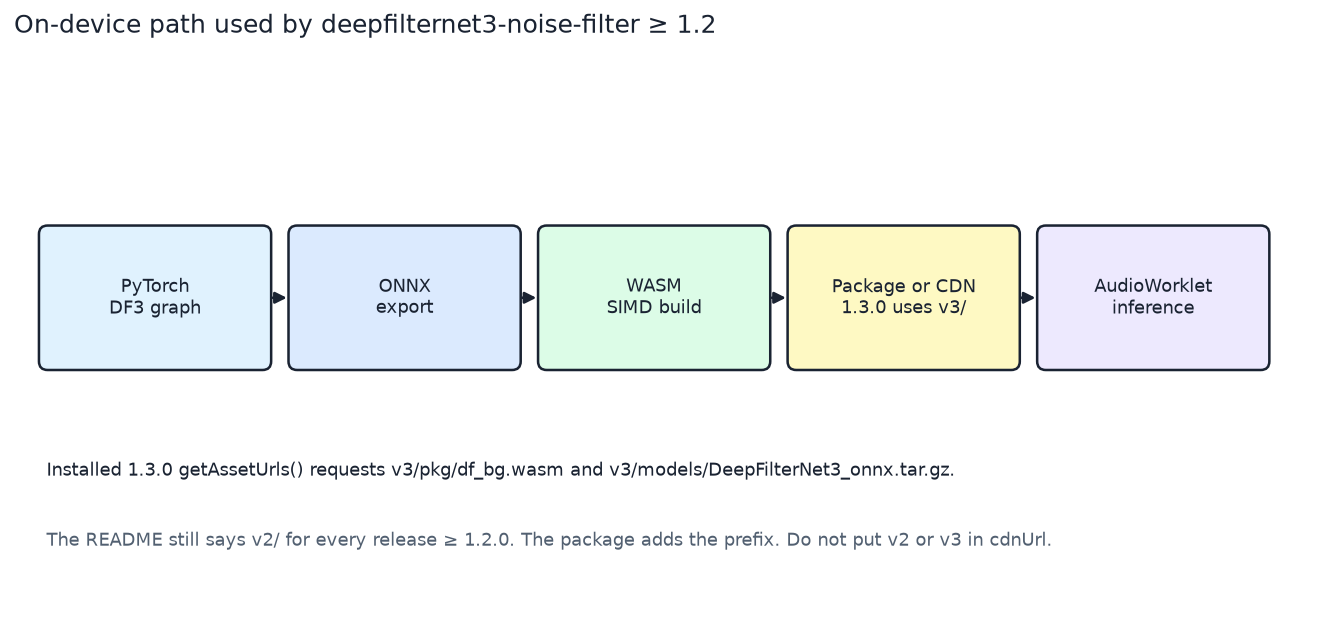
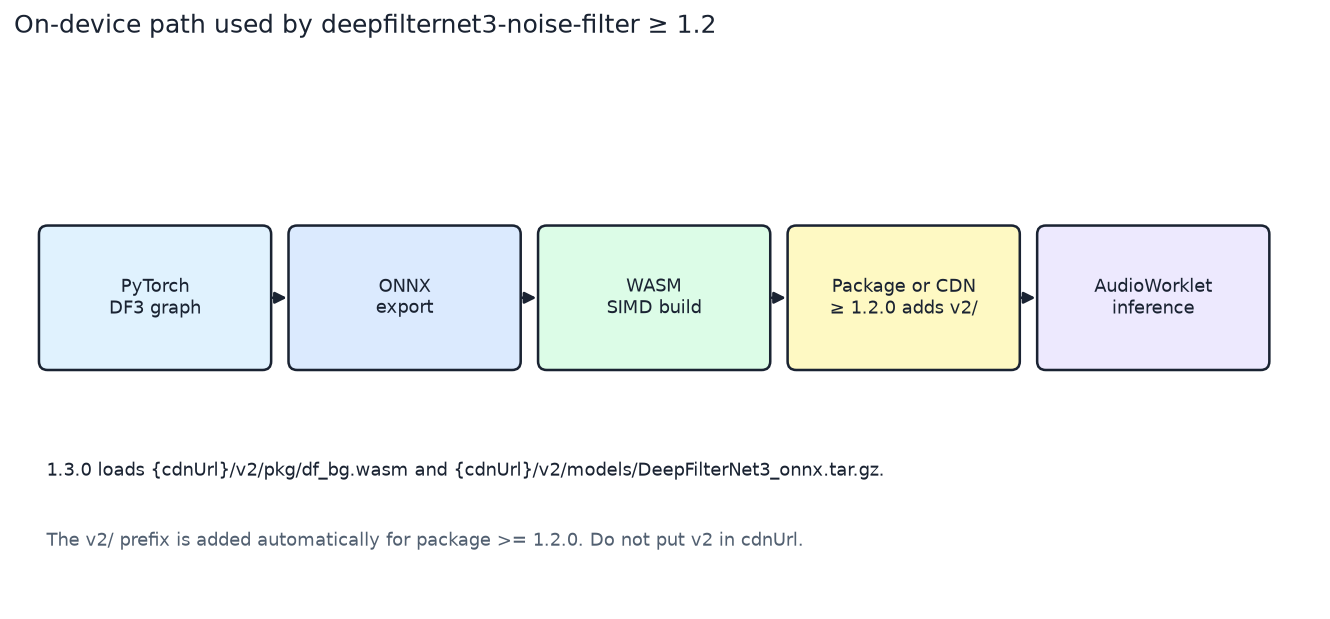
Teach the 1.3.0 public API with the automatic v2 CDN prefix.
Align LiveKit and core snippets with DeepFilterNet3Core, DeepFilterNoiseFilterProcessor, and DeepFilterNoiseFilter. Package >= 1.2.0, including 1.3.0, adds v2/ itself; examples stay at 48 kHz on the Mezon CDN base.

Changed region(s): [[0.0617, 0.8595, 0.8015, 0.8901], [0.0308, 0.7367, 0.709, 0.7981], [0.6165, 0.4604, 0.7398, 0.5218]]

diff --git a/scripts/generate_course_figures.py b/scripts/generate_course_figures.py
@@ -454,15 +454,15 @@ def onnx_wasm_path():
         (0.25, "PyTorch\nDF3 graph", "#e0f2fe"),
         (2.55, "ONNX\nexport", "#dbeafe"),
         (4.85, "WASM\nSIMD build", "#dcfce7"),
-        (7.15, "Package or CDN\n1.3.0 uses v3/", "#fef9c3"),
+        (7.15, "Package or CDN\n≥ 1.2.0 adds v2/", "#fef9c3"),
         (9.45, "AudioWorklet\ninference", "#ede9fe"),
     ]
     for x, text, fc in labels:
         _box(ax, (x, 2.2), 2.1, 1.3, text, fc, fs=9)
     for x in (2.35, 4.65, 6.95, 9.25):
         _arrow(ax, (x, 2.85), (x + 0.2, 2.85))
-    ax.text(0.3, 1.2, "Installed 1.3.0 getAssetUrls() requests v3/pkg/df_bg.wasm and v3/models/DeepFilterNet3_onnx.tar.gz.", fontsize=9, color=INK)
-    ax.text(0.3, 0.55, "The README still says v2/ for every release ≥ 1.2.0. The package adds the prefix. Do not put v2 or v3 in cdnUrl.", fontsize=9, color=MUTED)
+    ax.text(0.3, 1.2, "1.3.0 loads {cdnUrl}/v2/pkg/df_bg.wasm and {cdnUrl}/v2/models/DeepFilterNet3_onnx.tar.gz.", fontsize=9, color=INK)
+    ax.text(0.3, 0.55, "The v2/ prefix is added automatically for package >= 1.2.0. Do not put v2 in cdnUrl.", fontsize=9, color=MUTED)
     _save(fig, "onnx-wasm-path.png")
 
 

diff --git a/contents/vi/chapter09/_posts/21-01-01-09_01_mezon_architecture.md b/contents/vi/chapter09/_posts/21-01-01-09_01_mezon_architecture.md
@@ -11,7 +11,7 @@ lesson_type: required
 draft: false
 ---
 
-Mezon noise suppression là case study sản phẩm, không phải giáo trình thứ hai. Đường công khai là micro trình duyệt, track cục bộ của LiveKit, và `DeepFilterNoiseFilterProcessor` từ gói npm `deepfilternet3-noise-filter` (bản 1.3.0 trong khóa này). Suy luận ở trên thiết bị. Gói tải bản WASM và archive ONNX DeepFilterNet3 từ CDN base bạn truyền trong `assetConfig.cdnUrl`. README vẫn nói mọi bản từ 1.2.0 trở đi tự thêm `v2/`. Client 1.3.0 đã phát hành thì không: `AssetLoader.getAssetUrls()` xin `{cdnUrl}/v3/pkg/df_bg.wasm` và `{cdnUrl}/v3/models/DeepFilterNet3_onnx.tar.gz` (ghi chú phát hành “bump assets cdn version to v3”, 2026-06-26). Bạn học đường đó. Bạn không sửa repo chung [mezonai/mezon-noise-suppression](https://github.com/mezonai/mezon-noise-suppression) như bài tập. Fork cá nhân hoặc harness bên ngoài là workspace. Cây giảng viên tại `/Users/nguyenlelinh/ncc/mezon-noise-suppression` là tùy chọn, không bắt buộc để xong lab.
+Mezon noise suppression là case study sản phẩm, không phải giáo trình thứ hai. Đường công khai là micro trình duyệt, track cục bộ của LiveKit, và `DeepFilterNoiseFilterProcessor` từ gói npm `deepfilternet3-noise-filter` (bản 1.3.0 trong khóa này). Suy luận ở trên thiết bị. Gói tải bản WASM và archive ONNX DeepFilterNet3 từ CDN base bạn truyền trong `assetConfig.cdnUrl`. Bản ≥ 1.2.0, gồm 1.3.0, tự thêm `v2/`, nên file được lấy là `{cdnUrl}/v2/pkg/df_bg.wasm` và `{cdnUrl}/v2/models/DeepFilterNet3_onnx.tar.gz`. Base ví dụ là `https://cdn.mezon.ai/AI/models/datas/noise_suppression/deepfilternet3`. Bạn học đường đó. Trọng số là archive DeepFilterNet3 của Rikorose. Bạn không sửa repo chung [mezonai/mezon-noise-suppression](https://github.com/mezonai/mezon-noise-suppression) như bài tập. Fork cá nhân hoặc harness bên ngoài là workspace. Cây giảng viên tại `/Users/nguyenlelinh/ncc/mezon-noise-suppression` là tùy chọn, không bắt buộc để xong lab.
 
 ![Đường publish LiveKit với DeepFilterNoiseFilterProcessor]({{ site.imgurl }}/generated/livekit-trackprocessor.png)
 
@@ -32,7 +32,7 @@ Bạn truy được tám bước công khai từ micro tới track đã publish,
 | `setProcessor` | Gắn processor vào track cục bộ trước khi publish |
 | `setSuppressionLevel(0–100)` | Mức mạnh lúc chạy |
 | `setEnabled` | Bypass, không giả vờ mô hình đã chạy |
-| `assetConfig.cdnUrl` | **Base** CDN. Đừng tự nối `v2/` hay `v3/` |
+| `assetConfig.cdnUrl` | **Base** CDN. Đừng tự nối `v2/` |
 
 Tài liệu LiveKit là chỗ tra signaling: [docs.livekit.io](https://docs.livekit.io/). Processor không giữ token, room, hay SFU. `DeepFilterNet3Core` là lối thoát khi bạn không ở trong TrackProcessor của LiveKit. Nó vẫn là cùng gói sản phẩm, không phải lớp riêng bạn bịa.
 
@@ -42,8 +42,8 @@ Tài liệu LiveKit là chỗ tra signaling: [docs.livekit.io](https://docs.live
 
 1. Trang xin micro và nhận `MediaStream`.
 2. Bạn bọc stream đó thành local audio track của LiveKit. Track là đối tượng nhận processor.
-3. Bạn tạo `DeepFilterNoiseFilterProcessor` và truyền `assetConfig.cdnUrl` là base CDN, không có hậu tố `v2/` hay `v3/`.
-4. Gói 1.2.x, theo README, xin `{cdnUrl}/v2/pkg/df_bg.wasm` và `{cdnUrl}/v2/models/DeepFilterNet3_onnx.tar.gz`. Bản 1.3.0 đã cài xin cùng hai tên file dưới `v3/`. Hãy theo `getAssetUrls()` của đúng bản bạn cài.
+3. Bạn tạo `DeepFilterNoiseFilterProcessor` (hoặc `DeepFilterNoiseFilter(options)`, hàm này trả về processor đó) và truyền `assetConfig.cdnUrl` là base CDN, không có hậu tố `v2/`.
+4. Gói ≥ 1.2.0, gồm 1.3.0, xin `{cdnUrl}/v2/pkg/df_bg.wasm` và `{cdnUrl}/v2/models/DeepFilterNet3_onnx.tar.gz`.
 5. Bạn gọi `setProcessor` với processor đó để mẫu được enhance trước khi mã hóa.
 6. Bạn publish track lên room. SFU nhận audio đã mã hóa, không nhận thông tin CDN của bạn.
 7. Sau đó `setSuppressionLevel` từ 0 đến 100 đổi mức mạnh mà không publish lại.
@@ -63,7 +63,7 @@ Khử nhiễu và khử echo của trình duyệt vẫn đứng cạnh processor
 ## Mezon NS — architecture sketch
 - Goal: khử nhiễu uplink trên thiết bị cho họp LiveKit
 - Data path: mic → setProcessor(DeepFilterNoiseFilterProcessor) → publish
-- Asset của bản 1.3.0 đã cài: {cdnUrl}/v3/pkg/df_bg.wasm và {cdnUrl}/v3/models/DeepFilterNet3_onnx.tar.gz (README vẫn ghi v2/ cho ≥ 1.2.0)
+- Asset của bản ≥ 1.2.0 gồm 1.3.0: {cdnUrl}/v2/pkg/df_bg.wasm và {cdnUrl}/v2/models/DeepFilterNet3_onnx.tar.gz
 - Controls: setEnabled, setSuppressionLevel(0–100)
 - Eval: SI-SDR trên cặp tổng hợp, DNSMOS hoặc n/a trên clip thật, ghi chú AB, RTF p95
 - Non-goals: tải PCM lên mây để suy luận; sửa repo sản phẩm chung
@@ -76,7 +76,7 @@ Khử nhiễu và khử echo của trình duyệt vẫn đứng cạnh processor
 | 03 | AEC/NS của trình duyệt có bật cùng lúc không |
 | 04 | Vì sao mô hình là DeepFilterNet3 và núm mức đánh đổi gì |
 | 05 | Callback trễ quantum thì sao |
-| 06 | WASM và archive ONNX, gồm tiền tố mà client đã cài thêm (`v3/` trên 1.3.0) |
+| 06 | WASM và archive ONNX; gói tự thêm `v2/` từ ≥ 1.2.0 |
 | 07 | `setProcessor` và `assetConfig.cdnUrl` |
 | 08 | Metric nào là `n/a` trên ghi thật |
 
@@ -122,7 +122,7 @@ Kiểu hỏng: bước thứ chín gọi lớp riêng; nhét `v2/` vào chính `
 
 ### Gợi ý đáp án
 
-1. Gồm cả hai file dưới tiền tố mà client đã cài thêm (`v3/` trên 1.3.0) và nói tiền tố là của gói, không phải của bạn.
+1. Gồm cả hai file `v2/` và nói tiền tố là của gói, không phải của bạn.
 2. Khi lỗi, publish mic chưa xử lý và hiện lỗi. Đừng chặn room.
 3. Chỉ bộ đếm và thời gian. Không mẫu, không bản ghi lời trong room.
 4. Đường publish LiveKit dùng processor và `setProcessor`. Trang WebAudio tự viết có thể dùng core. Đừng bịa thêm phương thức.

diff --git a/contents/en/chapter09/_posts/21-01-01-09_01_mezon_architecture.md b/contents/en/chapter09/_posts/21-01-01-09_01_mezon_architecture.md
@@ -11,7 +11,7 @@ lesson_type: required
 draft: false
 ---
 
-Mezon noise suppression is a product case study, not a second syllabus. The public path is a browser microphone, a LiveKit local track, and `DeepFilterNoiseFilterProcessor` from the npm package `deepfilternet3-noise-filter` (version 1.3.0 in this course). Inference stays on device. The package loads a WASM build and the DeepFilterNet3 ONNX archive from a CDN base you pass as `assetConfig.cdnUrl`. The README still says every release at or after 1.2.0 prefixes `v2/`. The published 1.3.0 client does not: `AssetLoader.getAssetUrls()` requests `{cdnUrl}/v3/pkg/df_bg.wasm` and `{cdnUrl}/v3/models/DeepFilterNet3_onnx.tar.gz` (release note: “bump assets cdn version to v3”, 2026-06-26). You study that path. You do not edit the shared repository [mezonai/mezon-noise-suppression](https://github.com/mezonai/mezon-noise-suppression) as the assignment. A personal fork or an external harness is the workspace. The instructor tree at `/Users/nguyenlelinh/ncc/mezon-noise-suppression` is optional and not required to finish the lab.
+Mezon noise suppression is a product case study, not a second syllabus. The public path is a browser microphone, a LiveKit local track, and `DeepFilterNoiseFilterProcessor` from the npm package `deepfilternet3-noise-filter` (version 1.3.0 in this course). Inference stays on device. The package loads a WASM build and the DeepFilterNet3 ONNX archive from a CDN base you pass as `assetConfig.cdnUrl`. Package ≥ 1.2.0, including 1.3.0, adds `v2/` itself, so the files fetched are `{cdnUrl}/v2/pkg/df_bg.wasm` and `{cdnUrl}/v2/models/DeepFilterNet3_onnx.tar.gz`. The example base is `https://cdn.mezon.ai/AI/models/datas/noise_suppression/deepfilternet3`. You study that path. The weights are the Rikorose DeepFilterNet3 archive. You do not edit the shared repository [mezonai/mezon-noise-suppression](https://github.com/mezonai/mezon-noise-suppression) as the assignment. A personal fork or an external harness is the workspace. The instructor tree at `/Users/nguyenlelinh/ncc/mezon-noise-suppression` is optional and not required to finish the lab.
 
 ![LiveKit publish path with DeepFilterNoiseFilterProcessor]({{ site.imgurl }}/generated/livekit-trackprocessor.png)
 
@@ -32,7 +32,7 @@ Stay on this surface:
 | `setProcessor` | Attaches the processor to the local track before publish |
 | `setSuppressionLevel(0–100)` | Runtime aggressiveness |
 | `setEnabled` | Bypass without pretending the model ran |
-| `assetConfig.cdnUrl` | CDN **base**. Do not append `v2/` or `v3/` yourself |
+| `assetConfig.cdnUrl` | CDN **base**. Do not append `v2/` yourself |
 
 LiveKit’s own docs are the signaling reference: [docs.livekit.io](https://docs.livekit.io/). The processor does not own tokens, the room, or the SFU. `DeepFilterNet3Core` is the escape hatch when you are not inside a LiveKit `TrackProcessor`. It is still the same product package, not a private class you invent.
 
@@ -42,8 +42,8 @@ Read this once, then close it and rewrite it in the mini-lab.
 
 1. The page requests the microphone and receives a `MediaStream`.
 2. You wrap that stream in a LiveKit local audio track. The track is the object that can accept a processor.
-3. You construct `DeepFilterNoiseFilterProcessor` and pass `assetConfig.cdnUrl` as the CDN base, with no `v2/` or `v3/` suffix.
-4. Package 1.2.x, per the README, requests `{cdnUrl}/v2/pkg/df_bg.wasm` and `{cdnUrl}/v2/models/DeepFilterNet3_onnx.tar.gz`. Installed 1.3.0 requests the same two filenames under `v3/` instead. Follow `getAssetUrls()` from the version you installed.
+3. You construct `DeepFilterNoiseFilterProcessor` (or `DeepFilterNoiseFilter(options)`, which returns that processor) and pass `assetConfig.cdnUrl` as the CDN base, with no `v2/` suffix.
+4. Package ≥ 1.2.0, including 1.3.0, requests `{cdnUrl}/v2/pkg/df_bg.wasm` and `{cdnUrl}/v2/models/DeepFilterNet3_onnx.tar.gz`.
 5. You call `setProcessor` with that processor so samples are enhanced before encode.
 6. You publish the track to the room. The SFU receives encoded audio, not your CDN credentials.
 7. Later, `setSuppressionLevel` between 0 and 100 changes aggressiveness without a new publish.
@@ -63,7 +63,7 @@ Browser noise suppression and echo control still exist beside this processor. If
 ## Mezon NS — architecture sketch
 - Goal: on-device uplink noise suppression for a LiveKit meeting
 - Data path: mic → setProcessor(DeepFilterNoiseFilterProcessor) → publish
-- Assets for installed 1.3.0: {cdnUrl}/v3/pkg/df_bg.wasm and {cdnUrl}/v3/models/DeepFilterNet3_onnx.tar.gz (README still says v2/ for ≥ 1.2.0)
+- Assets for ≥ 1.2.0 including 1.3.0: {cdnUrl}/v2/pkg/df_bg.wasm and {cdnUrl}/v2/models/DeepFilterNet3_onnx.tar.gz
 - Controls: setEnabled, setSuppressionLevel(0–100)
 - Eval: SI-SDR on synthetic pairs, DNSMOS or n/a on real clips, AB note, RTF p95
 - Non-goals: uploading raw audio for cloud inference; editing the shared product repo
@@ -76,7 +76,7 @@ Browser noise suppression and echo control still exist beside this processor. If
 | 03 | Whether browser AEC/NS is on at the same time |
 | 04 | Why this model is DeepFilterNet3 and what the level knob trades |
 | 05 | What happens when the callback misses its quantum |
-| 06 | WASM and the ONNX archive, including the prefix the installed client adds (`v3/` on 1.3.0) |
+| 06 | WASM and the ONNX archive; the package adds `v2/` for ≥ 1.2.0 |
 | 07 | `setProcessor` and `assetConfig.cdnUrl` |
 | 08 | Which metric is `n/a` on a real recording |
 
@@ -122,7 +122,7 @@ Failure modes: a ninth step that names a private class; putting `v2/` inside `cd
 
 ### Answer hints
 
-1. Include both files under the prefix the installed client adds (`v3/` on 1.3.0) and say the prefix is the package’s, not yours.
+1. Include both `v2/` files and say the prefix is the package’s, not yours.
 2. On failure, publish the unprocessed mic and show an error. Do not block the room.
 3. Counters and timings only. No samples, no transcripts of the room.
 4. LiveKit publish path uses the processor and `setProcessor`. A custom WebAudio page may use the core. Do not invent further methods.

diff --git a/contents/vi/chapter09/_posts/21-01-01-09_03_optional_rust_df_core.md b/contents/vi/chapter09/_posts/21-01-01-09_03_optional_rust_df_core.md
@@ -11,11 +11,11 @@ lesson_type: required
 draft: false
 ---
 
-Đường Mezon được hỗ trợ là hộp WASM trong `deepfilternet3-noise-filter`: weight ONNX, bản WASM SIMD, bố trí CDN mà client đã cài xin (`v3/` trên bản 1.3.0 đã phát hành), và AudioWorklet. Crate Rust bạn có thể gọi `df-core` là **phương án kéo thay cho hộp đó**, cho CLI máy bàn hoặc nhúng native bạn tự dựng trong workspace của mình. Nó không phải sản phẩm thứ hai, không bắt buộc để đậu, và không phải thư mục bạn có quyền tìm dưới `/Users/nguyenlelinh/ncc/mezon-noise-suppression`. Nếu backend đầu chỉ chép mẫu từ vào ra, hãy ghi **passthrough**. Đừng viết “NS works” trên bản passthrough.
+Đường Mezon được hỗ trợ là hộp WASM trong `deepfilternet3-noise-filter`: weight ONNX, bản WASM SIMD, bố trí CDN `v2/` mà gói tự thêm từ ≥ 1.2.0 (gồm 1.3.0), và AudioWorklet. Crate Rust bạn có thể gọi `df-core` là **phương án kéo thay cho hộp đó**, cho CLI máy bàn hoặc nhúng native bạn tự dựng trong workspace của mình. Nó không phải sản phẩm thứ hai, không bắt buộc để đậu, và không phải thư mục bạn có quyền tìm dưới `/Users/nguyenlelinh/ncc/mezon-noise-suppression`. Nếu backend đầu chỉ chép mẫu từ vào ra, hãy ghi **passthrough**. Đừng viết “NS works” trên bản passthrough.
 
 ![Đường WASM trên thiết bị của deepfilternet3-noise-filter]({{ site.imgurl }}/generated/onnx-wasm-path.png)
 
-*Hình. Đường ship là PyTorch sang ONNX sang WASM sang gói hoặc asset CDN (bản 1.3.0 đã phát hành xin `v3/`), rồi AudioWorklet. Rust `df-core` là phương án kéo thay cho hộp WASM này, không phải sản phẩm thứ hai đứng cạnh nó.*
+*Hình. Đường ship là PyTorch sang ONNX sang WASM sang gói hoặc asset CDN `v2/`, rồi AudioWorklet. Rust `df-core` là phương án kéo thay cho hộp WASM này, không phải sản phẩm thứ hai đứng cạnh nó.*
 
 ## Bạn làm được gì sau bài này
 
@@ -23,7 +23,7 @@ Bạn nói được đường WASM tải gì (`df_bg.wasm`, `DeepFilterNet3_onnx
 
 ## Hộp bạn không thay theo mặc định
 
-Gói 1.3.0 đã cài xin `{cdnUrl}/v3/pkg/df_bg.wasm` và `{cdnUrl}/v3/models/DeepFilterNet3_onnx.tar.gz`. Đoạn README “≥ 1.2.0” vẫn in `v2/`. Tiền tố do client thêm, dù là bản nào. Nút công khai vẫn là `DeepFilterNoiseFilterProcessor` hoặc `DeepFilterNet3Core`, `setProcessor`, `setSuppressionLevel(0–100)`, và `setEnabled`. Thí nghiệm Rust không thêm tên công khai mới vào gói npm. Muốn CLI thì dựng cạnh khóa học, trong repo cá nhân.
+Gói 1.3.0, như mọi bản ≥ 1.2.0, xin `{cdnUrl}/v2/pkg/df_bg.wasm` và `{cdnUrl}/v2/models/DeepFilterNet3_onnx.tar.gz`. Client tự thêm `v2/`. Đừng nhét vào `cdnUrl`. Base ví dụ là `https://cdn.mezon.ai/AI/models/datas/noise_suppression/deepfilternet3`. Nút công khai vẫn là `DeepFilterNoiseFilterProcessor` hoặc `DeepFilterNet3Core`, `setProcessor`, `setSuppressionLevel(0–100)`, và `setEnabled`. Thí nghiệm Rust không thêm tên công khai mới vào gói npm. Muốn CLI thì dựng cạnh khóa học, trong repo cá nhân.
 
 Các bài DeepFilterNet nói vì sao viết lại native khó tính: audio full-band 48 kHz, STFT với hop cỡ 10 ms, tầng gain ERB, và deep filter có thể dùng look-ahead ngắn. Look-ahead đó là độ trễ thuật toán. Khớp RTF không phải khớp waveform. Bài 08-01 cho thấy trượt một mẫu biến 13.80 dB thành −10.67 dB. Bản Rust “trễ một chút” sẽ tệ trên SI-SDR dù nghe na ná.
 

diff --git a/contents/en/chapter09/_posts/21-01-01-09_03_optional_rust_df_core.md b/contents/en/chapter09/_posts/21-01-01-09_03_optional_rust_df_core.md
@@ -11,11 +11,11 @@ lesson_type: required
 draft: false
 ---
 
-The supported Mezon path is the WASM box in `deepfilternet3-noise-filter`: ONNX weights, a SIMD WASM build, the CDN layout the installed client requests (`v3/` in published 1.3.0), and an AudioWorklet. A Rust crate you might call `df-core` is a **stretch alternative to that box**, for a desktop CLI or a native embed you build in your own workspace. It is not a second product, it is not required to pass, and it is not a folder you are entitled to find under `/Users/nguyenlelinh/ncc/mezon-noise-suppression`. If your first backend only copies samples from input to output, label it **passthrough**. Never write “NS works” on a passthrough build.
+The supported Mezon path is the WASM box in `deepfilternet3-noise-filter`: ONNX weights, a SIMD WASM build, the `v2/` CDN layout the package adds for ≥ 1.2.0 (including 1.3.0), and an AudioWorklet. A Rust crate you might call `df-core` is a **stretch alternative to that box**, for a desktop CLI or a native embed you build in your own workspace. It is not a second product, it is not required to pass, and it is not a folder you are entitled to find under `/Users/nguyenlelinh/ncc/mezon-noise-suppression`. If your first backend only copies samples from input to output, label it **passthrough**. Never write “NS works” on a passthrough build.
 
 ![On-device WASM path for deepfilternet3-noise-filter]({{ site.imgurl }}/generated/onnx-wasm-path.png)
 
-*Figure. The shipping path is PyTorch to ONNX to WASM to the package or CDN assets (published 1.3.0 requests `v3/`), then AudioWorklet. Rust `df-core` is a stretch alternative to this WASM box, not a second product beside it.*
+*Figure. The shipping path is PyTorch to ONNX to WASM to the package or CDN `v2/` assets, then AudioWorklet. Rust `df-core` is a stretch alternative to this WASM box, not a second product beside it.*
 
 ## What you should be able to do
 
@@ -23,7 +23,7 @@ You should be able to say what the WASM path loads (`df_bg.wasm`, `DeepFilterNet
 
 ## The box you are not replacing by default
 
-Installed package 1.3.0 requests `{cdnUrl}/v3/pkg/df_bg.wasm` and `{cdnUrl}/v3/models/DeepFilterNet3_onnx.tar.gz`. The README paragraph for “≥ 1.2.0” still prints `v2/`. The prefix is added by the client either way. The public controls remain `DeepFilterNoiseFilterProcessor` or `DeepFilterNet3Core`, `setProcessor`, `setSuppressionLevel(0–100)`, and `setEnabled`. A Rust experiment does not get new public names in the npm package. If you want a CLI, you build it beside the course, in a personal repository.
+Package 1.3.0, like every release ≥ 1.2.0, requests `{cdnUrl}/v2/pkg/df_bg.wasm` and `{cdnUrl}/v2/models/DeepFilterNet3_onnx.tar.gz`. The client adds `v2/`. Do not put it in `cdnUrl`. The example base is `https://cdn.mezon.ai/AI/models/datas/noise_suppression/deepfilternet3`. The public controls remain `DeepFilterNoiseFilterProcessor` or `DeepFilterNet3Core`, `setProcessor`, `setSuppressionLevel(0–100)`, and `setEnabled`. A Rust experiment does not get new public names in the npm package. If you want a CLI, you build it beside the course, in a personal repository.
 
 The DeepFilterNet papers describe why a native reimplementation is picky: 48 kHz full-band audio, an STFT with a hop on the order of 10 ms, an ERB gain stage, and a deep filter that may use a short look-ahead. That look-ahead is algorithmic latency. Matching RTF is not the same as matching the waveform. Lesson 08-01 showed that a one-sample slip turns 13.80 dB into −10.67 dB. A Rust port that is “a little late” will look terrible on SI-SDR even when it sounds similar.
 

diff --git a/contents/vi/chapter07/_posts/21-01-01-07_03_cdn_model_loading.md b/contents/vi/chapter07/_posts/21-01-01-07_03_cdn_model_loading.md
@@ -64,12 +64,11 @@ README nêu:
 | Gói | Đường đã resolve |
 |-----|------------------|
 | ≤ 1.1.2 | `{cdnUrl}/pkg/df_bg.wasm` và `{cdnUrl}/models/DeepFilterNet3_onnx.tar.gz` |
-| ≥ 1.2.0 như README vẫn in | `{cdnUrl}/v2/pkg/df_bg.wasm` và `{cdnUrl}/v2/models/DeepFilterNet3_onnx.tar.gz` |
-| `getAssetUrls()` của bản 1.3.0 đã cài | `{cdnUrl}/v3/pkg/df_bg.wasm` và `{cdnUrl}/v3/models/DeepFilterNet3_onnx.tar.gz` |
+| ≥ 1.2.0, gồm 1.3.0 | `{cdnUrl}/v2/pkg/df_bg.wasm` và `{cdnUrl}/v2/models/DeepFilterNet3_onnx.tar.gz` |
 
 Gói thêm `v2/`. Bạn không thêm. README cũng nói bản SIMD nhanh hơn khoảng 20–30% với ≥ 1.2.0; hãy trích đó như con số của README. Trình duyệt cho bản đó, lại theo README: Chrome 91+, Firefox 89+, Safari 16.4+.
 
-`AssetLoader.getAssetUrls()` của bản 1.3.0 đã phát hành thêm tiền tố `v3/`, khớp ghi chú phát hành “bump assets cdn version to v3” (2026-06-26). Đoạn README chưa được sửa và vẫn nói `v2/` cho mọi bản ≥ 1.2.0. Mini-lab in cả hai. Hãy upload đúng thư mục mà client đã cài xin. Đừng bao giờ đặt `v2` hoặc `v3` trong `cdnUrl`. Changelog 1.3.0 cũng nâng bản WASM lên tract 0.23.3.
+Gói ≥ 1.2.0, gồm 1.3.0, tự thêm `v2/`. Bạn không thêm. Đừng bao giờ đặt `v2` trong `cdnUrl`. Base ví dụ công khai là `https://cdn.mezon.ai/AI/models/datas/noise_suppression/deepfilternet3`. Changelog 1.3.0 cũng ghi lần nâng tract 0.23.3 cho bản WASM; ghim đó không đổi đường `v2/`.
 
 ## Sẵn sàng dần
 
@@ -110,14 +109,13 @@ Tải `DeepFilterNet3_onnx.tar.gz` từ upstream và `df_bg.wasm` khớp thế h
 
 ## Mini-lab
 
-Cho `cdnUrl = https://example.com/df3`, tính đường README và đường mà bản 1.3.0 đã phát hành thực sự xin. Chạy `python3 cdn_urls.py`.
+Cho `cdnUrl = https://example.com/df3`, tính đường của bản ≤ 1.1.2 và của bản ≥ 1.2.0 gồm 1.3.0. Chạy `python3 cdn_urls.py`.
 
 ```python
 cdn = "https://example.com/df3"
 pairs = {
     "1.1.2": ("pkg/df_bg.wasm", "models/DeepFilterNet3_onnx.tar.gz"),
-    "readme_ge_1.2.0": ("v2/pkg/df_bg.wasm", "v2/models/DeepFilterNet3_onnx.tar.gz"),
-    "installed_1.3.0": ("v3/pkg/df_bg.wasm", "v3/models/DeepFilterNet3_onnx.tar.gz"),
+    "1.3.0": ("v2/pkg/df_bg.wasm", "v2/models/DeepFilterNet3_onnx.tar.gz"),
 }
 for ver, (wasm, model) in pairs.items():
     print(ver)
@@ -131,12 +129,9 @@ for ver, (wasm, model) in pairs.items():
 1.1.2
 https://example.com/df3/pkg/df_bg.wasm
 https://example.com/df3/models/DeepFilterNet3_onnx.tar.gz
-readme_ge_1.2.0
+1.3.0
 https://example.com/df3/v2/pkg/df_bg.wasm
 https://example.com/df3/v2/models/DeepFilterNet3_onnx.tar.gz
-installed_1.3.0
-https://example.com/df3/v3/pkg/df_bg.wasm
-https://example.com/df3/v3/models/DeepFilterNet3_onnx.tar.gz
 ```
 
 **Failure modes**
@@ -144,7 +139,7 @@ https://example.com/df3/v3/models/DeepFilterNet3_onnx.tar.gz
 - Nhúng `v2` vào `cdnUrl`, ra `https://example.com/df3/v2/v2/pkg/df_bg.wasm`.
 - Dùng tên file không phải `df_bg.wasm` hoặc `DeepFilterNet3_onnx.tar.gz`.
 - Chặn `connect()` cho tới khi cả bốn URL giả định đều trả lời. Chỉ hai URL của phiên bản đã cài được fetch, và không phải cổng của signaling.
-- Bỏ qua tiền tố `v3` mà `getAssetUrls()` của bản 1.3.0 đã cài in ra. Hãy theo client đã cài khi upload; dùng khối expected phía trên để kiểm bạn hiểu README.
+- Coi 1.3.0 là layout không tiền tố. Từ 1.2.0 trở đi, gồm 1.3.0, client tự thêm `v2/`.
 
 ## Bẫy thường gặp
 

diff --git a/contents/en/chapter07/_posts/21-01-01-07_03_cdn_model_loading.md b/contents/en/chapter07/_posts/21-01-01-07_03_cdn_model_loading.md
@@ -62,12 +62,11 @@ The README states:
 | Package | Resolved paths |
 |---------|----------------|
 | ≤ 1.1.2 | `{cdnUrl}/pkg/df_bg.wasm` and `{cdnUrl}/models/DeepFilterNet3_onnx.tar.gz` |
-| ≥ 1.2.0 as the README still prints it | `{cdnUrl}/v2/pkg/df_bg.wasm` and `{cdnUrl}/v2/models/DeepFilterNet3_onnx.tar.gz` |
-| installed 1.3.0 `getAssetUrls()` | `{cdnUrl}/v3/pkg/df_bg.wasm` and `{cdnUrl}/v3/models/DeepFilterNet3_onnx.tar.gz` |
+| ≥ 1.2.0, including 1.3.0 | `{cdnUrl}/v2/pkg/df_bg.wasm` and `{cdnUrl}/v2/models/DeepFilterNet3_onnx.tar.gz` |
 
 The package adds `v2/`. You do not. The README also says the SIMD build is about 20–30% faster for ≥ 1.2.0; cite that as the README’s number. Browsers for that build, again from the README: Chrome 91+, Firefox 89+, Safari 16.4+.
 
-Published 1.3.0 `AssetLoader.getAssetUrls()` prefixes `v3/`, matching the release note “bump assets cdn version to v3” (2026-06-26). The README paragraph was not updated and still says `v2/` for every release ≥ 1.2.0. The mini-lab prints both. Upload to the directory the installed client requests. Never put `v2` or `v3` inside `cdnUrl`. The same 1.3.0 changelog bumps the WASM build to tract 0.23.3.
+Package ≥ 1.2.0, including 1.3.0, adds `v2/` itself. You do not. Never put `v2` inside `cdnUrl`. The public example base is `https://cdn.mezon.ai/AI/models/datas/noise_suppression/deepfilternet3`. The 1.3.0 changelog also records a tract 0.23.3 bump for the WASM build; that pin does not change the `v2/` paths.
 
 ## Progressive readiness
 
@@ -106,14 +105,13 @@ Download the upstream `DeepFilterNet3_onnx.tar.gz` and the `df_bg.wasm` that mat
 
 ## Mini-lab
 
-Given `cdnUrl = https://example.com/df3`, compute the README paths and the paths published 1.3.0 actually requests. Run `python3 cdn_urls.py`.
+Given `cdnUrl = https://example.com/df3`, compute the paths for ≤ 1.1.2 and for ≥ 1.2.0 including 1.3.0. Run `python3 cdn_urls.py`.
 
 ```python
 cdn = "https://example.com/df3"
 pairs = {
     "1.1.2": ("pkg/df_bg.wasm", "models/DeepFilterNet3_onnx.tar.gz"),
-    "readme_ge_1.2.0": ("v2/pkg/df_bg.wasm", "v2/models/DeepFilterNet3_onnx.tar.gz"),
-    "installed_1.3.0": ("v3/pkg/df_bg.wasm", "v3/models/DeepFilterNet3_onnx.tar.gz"),
+    "1.3.0": ("v2/pkg/df_bg.wasm", "v2/models/DeepFilterNet3_onnx.tar.gz"),
 }
 for ver, (wasm, model) in pairs.items():
     print(ver)
@@ -127,12 +125,9 @@ for ver, (wasm, model) in pairs.items():
 1.1.2
 https://example.com/df3/pkg/df_bg.wasm
 https://example.com/df3/models/DeepFilterNet3_onnx.tar.gz
-readme_ge_1.2.0
+1.3.0
 https://example.com/df3/v2/pkg/df_bg.wasm
 https://example.com/df3/v2/models/DeepFilterNet3_onnx.tar.gz
-installed_1.3.0
-https://example.com/df3/v3/pkg/df_bg.wasm
-https://example.com/df3/v3/models/DeepFilterNet3_onnx.tar.gz
 ```
 
 **Failure modes**
@@ -140,7 +135,7 @@ https://example.com/df3/v3/models/DeepFilterNet3_onnx.tar.gz
 - Embedding `v2` in `cdnUrl`, which yields `https://example.com/df3/v2/v2/pkg/df_bg.wasm`.
 - Using a filename that is not `df_bg.wasm` or `DeepFilterNet3_onnx.tar.gz`.
 - Blocking `connect()` until all four hypothetical URLs respond. Only the two URLs for the installed version are fetched, and not as a gate on signaling.
-- Ignoring a `v3` prefix printed by the installed 1.3.0 `getAssetUrls()`. Follow the installed client for the upload; use the expected block above to check you understood the README.
+- Treating 1.3.0 as a no-prefix layout. From 1.2.0 onward, including 1.3.0, the client adds `v2/`.
 
 ## Pitfalls
 

diff --git a/contents/en/chapter06/_posts/21-01-01-06_04_model_packaging.md b/contents/en/chapter06/_posts/21-01-01-06_04_model_packaging.md
@@ -19,7 +19,7 @@ A correct ONNX graph still fails in a product when **packaging** is wrong: a hug
 
 ## Learning objectives
 
-You will separate the npm tarball from the CDN artifacts, apply the README path rule for package ≤ 1.1.2 versus the README rule for ≥ 1.2.0 and the `v3/` paths installed 1.3.0 actually requests, refuse a `cdnUrl` that already contains a version prefix, and list the license and cache checks that belong in a ship gate.
+You will separate the npm tarball from the CDN artifacts, apply the path rule for package ≤ 1.1.2 versus ≥ 1.2.0 (including 1.3.0, which still auto-prefixes `v2/`), refuse a `cdnUrl` that already contains `v2`, and list the license and cache checks that belong in a ship gate.
 
 ## 60-minute teaching plan
 
@@ -58,10 +58,9 @@ The package README specifies:
 | Package | WASM | Model archive |
 |---------|------|----------------|
 | ≤ 1.1.2 | `{cdnUrl}/pkg/df_bg.wasm` | `{cdnUrl}/models/DeepFilterNet3_onnx.tar.gz` |
-| 1.2.x, as the README still states for every ≥ 1.2.0 | `{cdnUrl}/v2/pkg/df_bg.wasm` | `{cdnUrl}/v2/models/DeepFilterNet3_onnx.tar.gz` |
-| installed 1.3.0 `getAssetUrls()` | `{cdnUrl}/v3/pkg/df_bg.wasm` | `{cdnUrl}/v3/models/DeepFilterNet3_onnx.tar.gz` |
+| ≥ 1.2.0, including 1.3.0 | `{cdnUrl}/v2/pkg/df_bg.wasm` | `{cdnUrl}/v2/models/DeepFilterNet3_onnx.tar.gz` |
 
-The client adds `v2/` itself for ≥ 1.2.0. Do not put `v2` inside `cdnUrl`. A base that already ends in `/v2` becomes `.../v2/v2/...` and 404s. The 1.3.0 source of `AssetLoader.getAssetUrls()` on the public repository prefixes `v3/` instead of the `v2/` string the README still prints. Treat the table above as the README contract this course self-checks. Before you upload a production mirror, print the URLs from the installed package and publish that directory. Do not invent a third filename. The archive name in both layouts is `DeepFilterNet3_onnx.tar.gz`, from the upstream DeepFilterNet repository. The WASM file name is `df_bg.wasm`.
+The client adds `v2/` itself for ≥ 1.2.0. Do not put `v2` inside `cdnUrl`. A base that already ends in `/v2` becomes `.../v2/v2/...` and 404s. The example base in the package README is `https://cdn.mezon.ai/AI/models/datas/noise_suppression/deepfilternet3`. The archive name is `DeepFilterNet3_onnx.tar.gz`, from the upstream Rikorose DeepFilterNet repository. The WASM file name is `df_bg.wasm`.
 
 ### Cache, compression, integrity
 
@@ -106,7 +105,7 @@ double-prefix risk
 
 - Putting `v2` in `cdnUrl` because the README table shows `v2` in the resolved path. The prefix is the client’s job.
 - Uploading only `df_bg.wasm` under `v2/pkg/` and leaving the tar.gz at the 1.1.2 path. The pair must match the package generation.
-- Trusting the README `v2` string when the installed `getAssetUrls()` prints `v3`. The lab checks the “do not embed the prefix” rule; the directory name comes from the package you actually ship.
+- Putting `v2` inside `cdnUrl` and also letting ≥ 1.2.0 add it, so the request 404s on `.../v2/v2/...`.
 - Hashing the files on a laptop and publishing different bytes to the CDN.
 
 ## Pitfalls

diff --git a/contents/vi/chapter06/_posts/21-01-01-06_04_model_packaging.md b/contents/vi/chapter06/_posts/21-01-01-06_04_model_packaging.md
@@ -19,7 +19,7 @@ draft: false
 
 ## Mục tiêu học tập
 
-Bạn tách tarball npm khỏi artifact trên CDN, áp quy tắc README cho gói ≤ 1.1.2 và ≥ 1.2.0, cùng đường `v3/` mà bản 1.3.0 đã cài thực sự xin, từ chối `cdnUrl` đã chứa tiền tố phiên bản, và liệt kê kiểm tra giấy phép cùng cache thuộc cổng ship.
+Bạn tách tarball npm khỏi artifact trên CDN, áp quy tắc đường cho gói ≤ 1.1.2 và ≥ 1.2.0 (gồm 1.3.0, vẫn tự thêm `v2/`), từ chối `cdnUrl` đã chứa `v2`, và liệt kê kiểm tra giấy phép cùng cache thuộc cổng ship.
 
 ## Kế hoạch 60 phút
 
@@ -58,10 +58,9 @@ README gói nêu:
 | Gói | WASM | Kho mô hình |
 |-----|------|-------------|
 | ≤ 1.1.2 | `{cdnUrl}/pkg/df_bg.wasm` | `{cdnUrl}/models/DeepFilterNet3_onnx.tar.gz` |
-| 1.2.x, như README vẫn ghi cho mọi bản ≥ 1.2.0 | `{cdnUrl}/v2/pkg/df_bg.wasm` | `{cdnUrl}/v2/models/DeepFilterNet3_onnx.tar.gz` |
-| `getAssetUrls()` của bản 1.3.0 đã cài | `{cdnUrl}/v3/pkg/df_bg.wasm` | `{cdnUrl}/v3/models/DeepFilterNet3_onnx.tar.gz` |
+| ≥ 1.2.0, gồm 1.3.0 | `{cdnUrl}/v2/pkg/df_bg.wasm` | `{cdnUrl}/v2/models/DeepFilterNet3_onnx.tar.gz` |
 
-Client tự thêm `v2/` với bản ≥ 1.2.0. Bạn không thêm. Base đã kết thúc bằng `/v2` sẽ thành `.../v2/v2/...` và 404. Mã nguồn 1.3.0 của `AssetLoader.getAssetUrls()` trên kho công khai lại thêm tiền tố `v3/` thay vì chuỗi `v2/` mà README vẫn in. Bảng trên là hợp đồng README mà khóa này dùng để tự chấm. Trước khi upload mirror sản xuất, hãy in URL từ gói đã cài và đăng đúng thư mục đó. Đừng bịa tên file thứ ba. Tên kho trong cả hai layout là `DeepFilterNet3_onnx.tar.gz`, từ kho DeepFilterNet upstream. Tên file WASM là `df_bg.wasm`.
+Client tự thêm `v2/` với bản ≥ 1.2.0. Bạn không thêm. Base đã kết thúc bằng `/v2` sẽ thành `.../v2/v2/...` và 404. Base ví dụ trong README gói là `https://cdn.mezon.ai/AI/models/datas/noise_suppression/deepfilternet3`. Tên kho là `DeepFilterNet3_onnx.tar.gz`, từ kho DeepFilterNet upstream của Rikorose. Tên file WASM là `df_bg.wasm`.
 
 ### Cache, nén, toàn vẹn
 
@@ -106,7 +105,7 @@ double-prefix risk
 
 - Nhét `v2` vào `cdnUrl` vì bảng README có `v2` trong đường đã resolve. Tiền tố là việc của client.
 - Chỉ upload `df_bg.wasm` dưới `v2/pkg/` và để tar.gz ở đường 1.1.2. Cặp file phải cùng thế hệ gói.
-- Tin chuỗi `v2` của README khi `getAssetUrls()` của bản đã cài in `v3`. Lab kiểm quy tắc “đừng nhúng tiền tố”; tên thư mục lấy từ gói bạn thực sự ship.
+- Nhét `v2` vào `cdnUrl` rồi để bản ≥ 1.2.0 thêm tiếp, request 404 ở `.../v2/v2/...`.
 - Băm file trên laptop rồi đăng byte khác lên CDN.
 
 ## Bẫy thường gặp

diff --git a/COURSE_OUTLINE.md b/COURSE_OUTLINE.md
@@ -223,7 +223,7 @@
 
 - Chapters **01** and **02** stay heavy (7 lessons each). Do not collapse them into a light “DSP mention.”
 - Cite only well-known sources: DeepFilterNet / DeepFilterNet2 / DeepFilterNet3, DNS Challenge, WebRTC APM, SpeexDSP, RNNoise, SI-SDR, DNSMOS, ORT/tract; named survey pointers only (DPDFNet, DeepFilterGAN, HDF-Net, FastEnhancer, μNet, Fast-ULCNet, GTCRN).
-- Teach techniques. The npm package `deepfilternet3-noise-filter` **1.3.0** is a vehicle: `DeepFilterNet3Core`, `DeepFilterNoiseFilterProcessor` (LiveKit `TrackProcessor`), `setSuppressionLevel` (0–100), optional `assetConfig.cdnUrl`. The README still says releases ≥ 1.2.0 add a `v2/` prefix. The published 1.3.0 client (`AssetLoader.getAssetUrls`, release note “bump assets cdn version to v3”) requests `v3/pkg/df_bg.wasm` and `v3/models/DeepFilterNet3_onnx.tar.gz`. Do not put either prefix inside `cdnUrl`. The 1.3.0 changelog also bumps tract to 0.23.3.
+- Teach techniques. The npm package `deepfilternet3-noise-filter` **1.3.0** is a vehicle: `DeepFilterNet3Core`, `DeepFilterNoiseFilterProcessor` (LiveKit `TrackProcessor`), `setSuppressionLevel` (0–100), optional `assetConfig.cdnUrl` (example `https://cdn.mezon.ai/AI/models/datas/noise_suppression/deepfilternet3`). For package ≥ 1.2.0, including 1.3.0, the client adds a `v2/` prefix itself (`{cdnUrl}/v2/pkg/df_bg.wasm`, `{cdnUrl}/v2/models/DeepFilterNet3_onnx.tar.gz`). Do not put `v2` inside `cdnUrl`. LiveKit entry points are `DeepFilterNoiseFilterProcessor` and `DeepFilterNoiseFilter` (`audioTrack.setProcessor`). The non-LiveKit core is `DeepFilterNet3Core` (`initialize`, `createAudioWorkletNode`, `setSuppressionLevel`, `destroy`). Examples use sample rate 48000. The model line is Rikorose DeepFilterNet.
 - Figures: `img/generated/*.png`, embedded as `{{ site.imgurl }}/generated/<name>.png`. `imgurl` is `/audio-processing-self-learning/img`.
 - Local preview: `bundle install && bundle exec jekyll serve` → http://127.0.0.1:4000/audio-processing-self-learning/
 - Do not modify `mezon-noise-suppression` product code from course tasks. Instructor checkout (optional): `/Users/nguyenlelinh/ncc/mezon-noise-suppression`.

diff --git a/contents/vi/chapter09/_posts/21-01-01-09_05_capstone_checklist.md b/contents/vi/chapter09/_posts/21-01-01-09_05_capstone_checklist.md
@@ -34,7 +34,7 @@ Chép vào `capstone/notes/demo_checklist.md` và đánh dấu. Ô trống là f
 
 Tải mô hình:
 
-- Lần lạnh lấy đúng hai đường của client đã cài. Với bản 1.3.0 đã phát hành đó là `{cdnUrl}/v3/pkg/df_bg.wasm` và `{cdnUrl}/v3/models/DeepFilterNet3_onnx.tar.gz`. README vẫn ghi `v2/` cho mọi bản ≥ 1.2.0. Trên panel mạng, xác nhận bạn **không** nhét `v2` hay `v3` vào trong `assetConfig.cdnUrl`.
+- Lần lạnh lấy `{cdnUrl}/v2/pkg/df_bg.wasm` và `{cdnUrl}/v2/models/DeepFilterNet3_onnx.tar.gz` với gói ≥ 1.2.0, gồm 1.3.0. Trên panel mạng, xác nhận bạn **không** nhét `v2/` vào trong `assetConfig.cdnUrl`.
 - Lần vào thứ hai dùng cache, hoặc bạn ghi là không.
 - Khi CDN bị chặn, cuộc gọi vẫn publish audio chưa xử lý và UI hiện lỗi. Ảnh hoặc một dòng log vào `capstone/notes/`.
 
@@ -68,7 +68,7 @@ Nếu tập vượt năm phút, cắt slide kiến trúc trước khi cắt hàn
 
 ## Tiêm lỗi
 
-Chặn host CDN (offline trong DevTools, hoặc `cdnUrl` sai) rồi vào phòng. Kỳ vọng: room vẫn có audio; processor không giả mô hình đã chạy; ghi chú nói `setEnabled` còn tới được không. Khôi phục mạng và tải lại. Kỳ vọng: WASM và tar.gz tải từ tiền tố mà client đã cài xin (`v3/` trên bản 1.3.0 đã phát hành). Nếu lần tiêm nào làm khác, hành vi đó là giới hạn, không phải bất ngờ để giấu.
+Chặn host CDN (offline trong DevTools, hoặc `cdnUrl` sai) rồi vào phòng. Kỳ vọng: room vẫn có audio; processor không giả mô hình đã chạy; ghi chú nói `setEnabled` còn tới được không. Khôi phục mạng và tải lại. Kỳ vọng: WASM và tar.gz tải từ đường `v2/`. Nếu lần tiêm nào làm khác, hành vi đó là giới hạn, không phải bất ngờ để giấu.
 
 Tiêm RTF, nếu bạn có log: kéo tới quantum tệ nhất, không phải trung bình. Thanh tràn trên hình là kiểu hỏng. p95 bạn chưa tính thì để `n/a`.
 

diff --git a/contents/en/chapter09/_posts/21-01-01-09_05_capstone_checklist.md b/contents/en/chapter09/_posts/21-01-01-09_05_capstone_checklist.md
@@ -34,7 +34,7 @@ Audio path:
 
 Model load:
 
-- Cold start fetches the two paths from the installed client. For published 1.3.0 that is `{cdnUrl}/v3/pkg/df_bg.wasm` and `{cdnUrl}/v3/models/DeepFilterNet3_onnx.tar.gz`. The README still documents `v2/` for every release ≥ 1.2.0. Confirm in the network panel that you did **not** also put `v2` or `v3` inside `assetConfig.cdnUrl`.
+- Cold start fetches `{cdnUrl}/v2/pkg/df_bg.wasm` and `{cdnUrl}/v2/models/DeepFilterNet3_onnx.tar.gz` for package ≥ 1.2.0, including 1.3.0. Confirm in the network panel that you did **not** also put `v2/` inside `assetConfig.cdnUrl`.
 - A second join uses cache or you document that it does not.
 - With the CDN blocked, the call still publishes unprocessed audio and the UI shows an error. Screenshot or a one-line log goes in `capstone/notes/`.
 
@@ -68,7 +68,7 @@ If the rehearsal exceeds five minutes, cut the architecture slide before you cut
 
 ## Failure injection
 
-Block the CDN host (DevTools offline, or a bad `cdnUrl`) and join. Expected: the room still has audio; the processor does not pretend the model ran; your notes say whether `setEnabled` was reachable. Restore the network and reload. Expected: WASM and the tar.gz load from the prefix the installed client requests (`v3/` on published 1.3.0). If either injection does something else, that behavior is a limit, not a surprise you hide.
+Block the CDN host (DevTools offline, or a bad `cdnUrl`) and join. Expected: the room still has audio; the processor does not pretend the model ran; your notes say whether `setEnabled` was reachable. Restore the network and reload. Expected: WASM and the tar.gz load from the `v2/` paths. If either injection does something else, that behavior is a limit, not a surprise you hide.
 
 RTF injection, if you have a log: scroll to the worst quantum, not the mean. The figure’s overrun bar is the failure mode. A p95 you never computed stays `n/a`.
 
